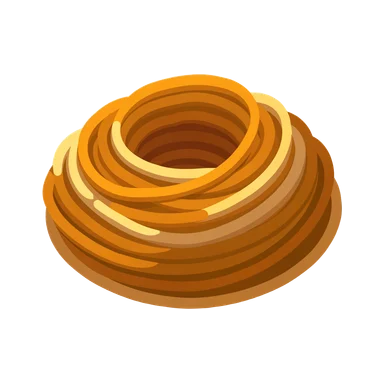
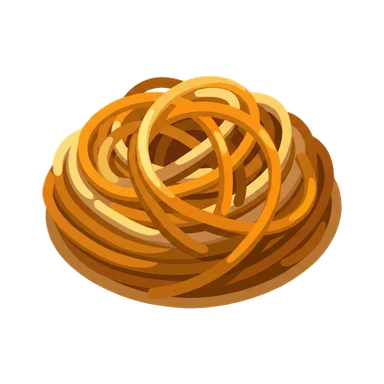
EL FIDEO: el nido deja de ser una dona y la comida por fin escala con la caja
EL HALLAZGO. El nido de spaghetti que se ve en pantalla NO venía del código: `bakeSprite`
es solo un placeholder de ~100ms y el asset de IA `/public/food/spaghetti.webp` lo
reemplaza al cargar. Por eso reescribir el procedural no cambiaba nada (lo confirmé
pintando la masa de rojo: no apareció). El defecto — un AGUJERO DE DONA en el centro y
lectura de soga enrollada — estaba horneado en la imagen.

- Asset regenerado a partir del propio original como referencia, con el centro COLMADO de
  hebras que se cruzan. Mismo estilo, misma paleta, mismo encuadre: la caja alfa medida da
  0.783w x 0.610h contra 0.781 x 0.612 del original, mismo centro → escala intacta en la
  caja. Se eligió entre 3 candidatas comparándolas DENTRO del juego al tamaño real (la que
  ganó en lámina perdía contraste al reducirse). Original guardado como .bak.

LA COMIDA NO ESCALABA CON LA CAJA (causa raíz del desktop vacío). La caja crece con la
pantalla pero la comida se dibujaba a un tamaño FIJO en píxeles: el nido ocupaba el 58%
del ancho de la caja en el móvil de diseño, 43% en iPad y 39% en desktop — de ahí la
sensación de caja grande y vacía con la comida encogida en el centro, y de ahí que el
lecho oscuro dominara el cuadro. Ahora radioDe() y los dos sitios de dibujo (pila y vuelo)
escalan por boxW/BOXW_REF:

  390px (diseño) factor 1.000 -> 58%   ·   360px 0.923 -> 58%
  430px          factor 1.103 -> 58%   ·   iPad  1.338 -> 58%   ·   desktop 1.499 -> 58%
[…]

diff --git a/web/app/m/[mesa]/EmplataGame.tsx b/web/app/m/[mesa]/EmplataGame.tsx
@@ -208,6 +208,13 @@ function wrap2(ctx: CanvasRenderingContext2D, text: string, maxW: number): [stri
    ========================================================================= */
 type Off = HTMLCanvasElement;
 const SPR = 96; // px lógicos del sprite (unidad de dibujo/display)
+/* Ancho de caja de REFERENCIA = el móvil de diseño (390px → boxW = 390·0.66 = 257.4). La comida se
+   dibujaba a un tamaño FIJO en píxeles mientras la caja SÍ crecía con la pantalla: en desktop el
+   nido ocupaba el 38% del ancho de la caja contra el 58% en móvil → caja grande y vacía con la
+   comida encogida en el centro. Escalando la comida por boxW/BOXW_REF la composición se vuelve
+   INVARIANTE DE ESCALA: a 390px sale idéntica bit a bit (el factor es exactamente 1) y cualquier
+   otro tamaño hereda sus proporciones — y con ellas sus guardas de rim y de labio. */
+const BOXW_REF = 390 * 0.66;
 const R = 34; // radio base de la comida dentro del sprite
 // SUPERSAMPLING: se hornea a SPR·Q y se dibuja a tamaño de display → nítido aun en la base heroína
 // (~240px device). Q=2 equilibra nitidez (la base sube a 192px, ~1.25× upscale) y coste en gama media.
@@ -1800,8 +1807,9 @@ export default function EmplataGame(props: {
     const listaActiva = (): Ingrediente[] =>
       sel.current.tab === 0 ? basesO : sel.current.tab === 1 ? proteinasO : toppingsO;
 
-    /** Radio de colisión (px) según categoría — la comida ocupa ~0.35 del sprite. */
-    const radioDe = (cat: string, sc: number) => SPR * sc * 0.35;
+    /** Radio de colisión (px) según categoría — la comida ocupa ~0.35 del sprite. Escala con la
+     *  caja (ver BOXW_REF) para que el solape y la relajación sean los mismos en toda pantalla. */
+    const radioDe = (cat: string, sc: number) => SPR * sc * 0.35 * (geo().boxW / BOXW_REF);
 
     /**
      * EL NIDO SERVIBLE — coloca cada ingrediente en un SLOT determinista (rol + índice) formando
@@ -2258,6 +2266,9 @@ export default function EmplataGame(props: {
       hvy = 0,
       scale = 1,
       ctrl: CtrlFideo | null = null,
+      /* Agranda SOLO cabeza+ojos+boca (no el cuerpo). En reposo la cabeza medía ~13px en móvil
+         y la cara era indescifrable; el vuelo y el KDS se quedan en 1 para no tocar sus gestos. */
+      headScale = 1,
     ) => {
       const wd = world.current;
       const S = scale; // el fideo escala con su objeto (p.ej. la caja crecida en la espera)
@@ -2434,7 +2445,7 @@ export default function EmplataGame(props: {
       ctx.save();
       ctx.translate(tipX, tipY);
       ctx.rotate(ang + Math.PI / 2); // el eje largo sigue la hebra
-      ctx.scale(S, S); // la cabeza escala con el cuerpo
+      ctx.scale(S * headScale, S * headScale); // la cabeza escala con el cuerpo (+ realce en reposo)
       const spd = Math.hypot(hvx, hvy);
       /* Dos defectos: el coeficiente saturaba a 187 px/s y la cabeza vuela a 1200-1800 px/s,
          así que el estiramiento era BINARIO (pegado al tope el 90% del tiempo, no comunicaba
@@ -2482,7 +2493,7 @@ export default function EmplataGame(props: {
         const ly = clamp((spd2 > 10 ? clamp(hvy / spd2, -1, 1) * 1.1 : 0) + pupilDown * 0.7, -1.15, 1.15);
         ctx.save();
         ctx.translate(tipX, tipY); // marco local a la cabeza, escalado por S (ojos/boca crecen con ella)
-        ctx.scale(S, S);
+        ctx.scale(S * headScale, S * headScale);
         for (const sd of [-1, 1]) {
           const ex = -dirX * 0.5 + perX * sd * 2.7;
           const ey = -dirY * 0.5 + perY * sd * 2.7;
@@ -2759,10 +2770,15 @@ export default function EmplataGame(props: {
               break;
           }
         }
+        // RESPIRA: el `breathe` del cuerpo solo escalaba el ancho ±4.5% (±0.34px sobre 7.6 →
+        // invisible) y, parada, los muelles de ctrl no animaban nada: la hebra quedaba TIESA.
+        // Un bob vertical del objetivo sube y baja la criatura entera — la lectura clásica de
+        // "está viva". Determinista (wd.ts + seed), sin allocaciones ni draw calls.
+        ty += Math.sin(TAU * 0.26 * wd.ts + 5) * up * 0.03;
         [m.hx, m.hvx] = springStep(m.hx, m.hvx, tx, react ? 240 : 170, react ? 22 : 19, dt);
         [m.hy, m.hvy] = springStep(m.hy, m.hvy, ty, react ? 240 : 170, react ? 22 : 19, dt);
         m.pupil += (pupil - m.pupil) * (1 - Math.pow(0.86, df));
-        drawFideo(ax, ay, m.hx, m.hy, 5, null, true, m.pupil, m.hvx, m.hvy, 1, m.ctrl);
+        drawFideo(ax, ay, m.hx, m.hy, 5, null, true, m.pupil, m.hvx, m.hvy, 1, m.ctrl, 1.2);
       }
 
       ctx.save();
@@ -3109,7 +3125,7 @@ export default function EmplataGame(props: {
           // UN solo sprite (base grande y ancha como lecho; proteína/topping por profundidad).
           // La base se ensancha un pelo para leerse como porción tendida, no como bola.
           // profundidad REAL: el frente ~1.08, el fondo ~0.78 (spread 38%, antes 12%)
-          const sz = SPR * p.s * (cp === 0 ? 1.0 : 0.78 + 0.3 * (1 - (p.depth ?? 0.5)));
+          const sz = SPR * (boxW / BOXW_REF) * p.s * (cp === 0 ? 1.0 : 0.78 + 0.3 * (1 - (p.depth ?? 0.5)));
           const wideX = cp === 0 ? 1.32 : 1; // la cama llena a lo ancho (semiancho ~98px < muro ~103)
           const prof = clamp((-ly - boxH * 0.02) / (boxH * 0.28), 0, 1); // niebla cálida de profundidad
           ctx.save();
@@ -3422,7 +3438,7 @@ export default function EmplataGame(props: {
           ctx.save();
           ctx.translate(v.x, v.y);
           ctx.rotate(v.rot);
-          const sz = SPR * v.sc;
+          const sz = SPR * (boxW / BOXW_REF) * v.sc; // el vuelo escala igual que el aterrizaje (o salta de tamaño)
           ctx.drawImage(spr, -sz / 2, -sz / 2, sz, sz);
           ctx.restore();
         }
